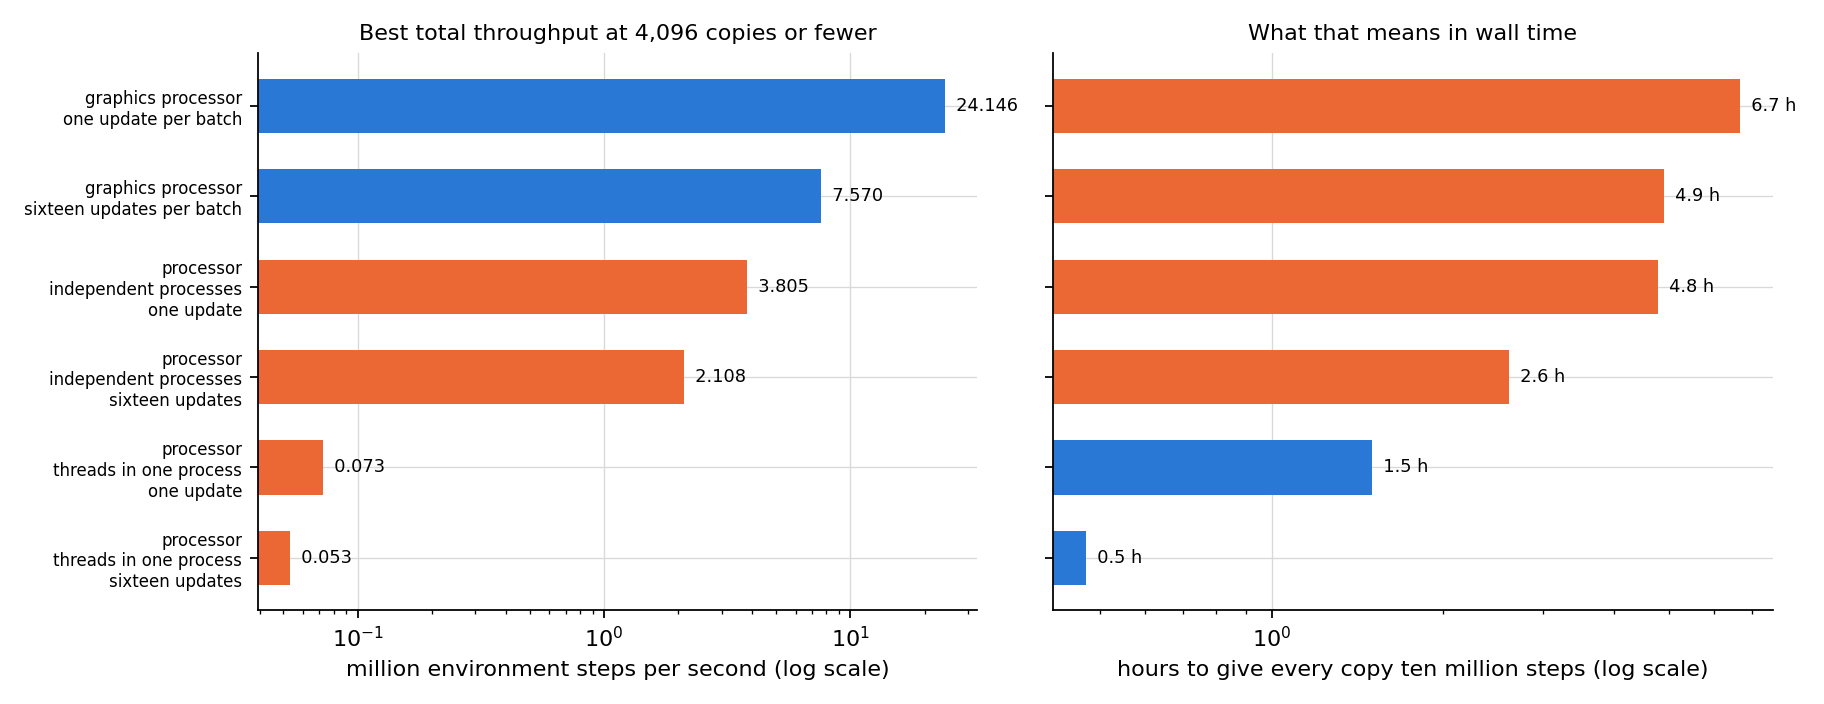
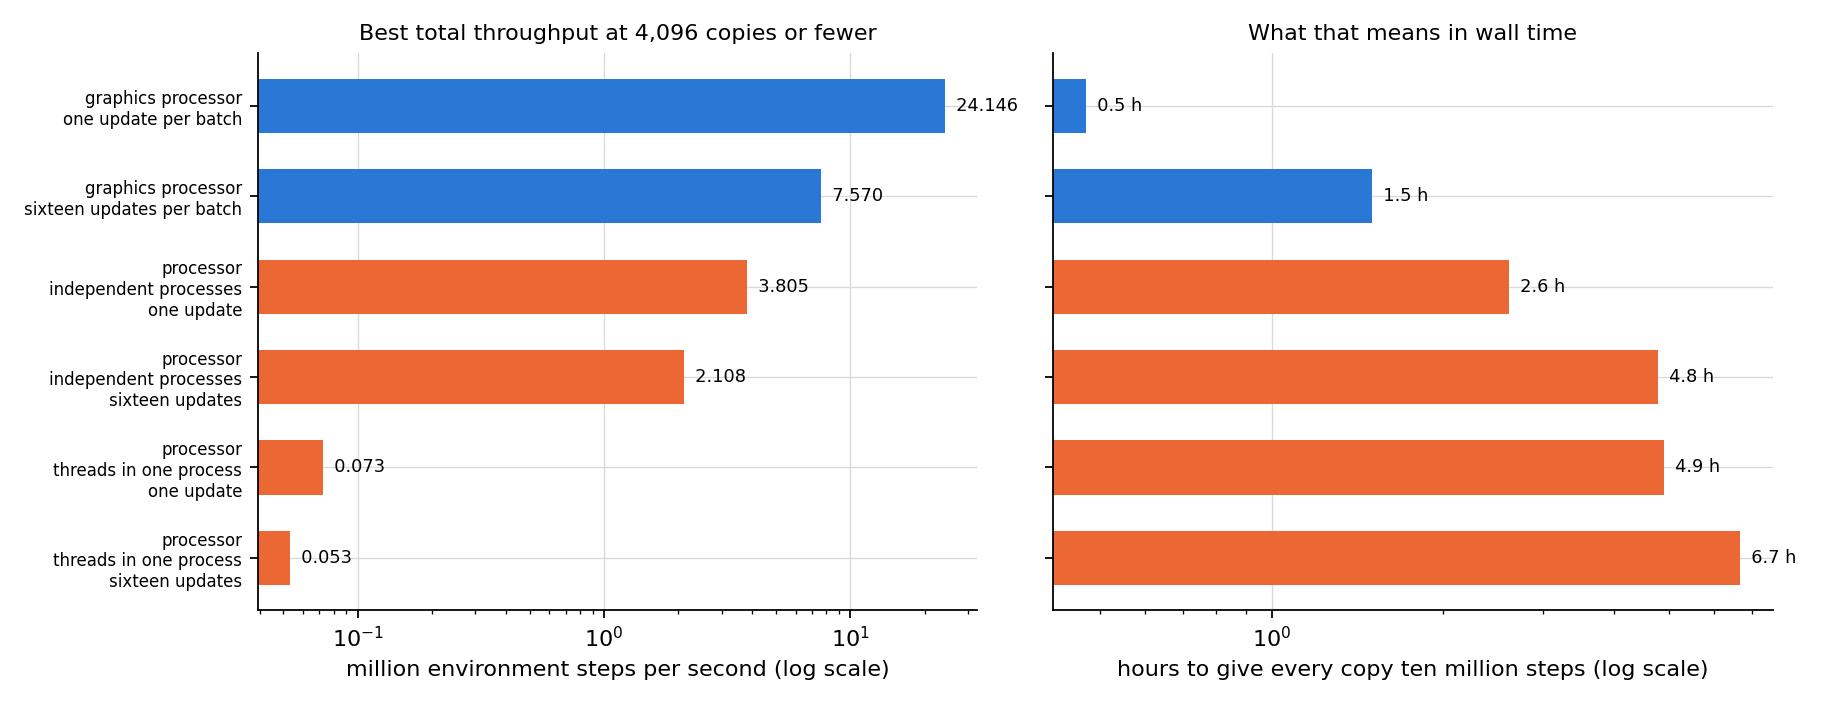
processor section: both parallelisation styles on jaguar03, and the best-setup comparison
Job 6537825 completed every planned point on jaguar03 held exclusively. Threads mode now
reaches 128 copies at two thread settings; process mode spans 8 to 3,584 copies; both update
conventions measured on each.

Report changes, all through code/cpu_sections.py and build.py:
- thread table shows the two thread settings side by side instead of collapsing them to a
  per-copy-count best, which was picking a half-percent noise difference at 128 copies
- the verdict prose is computed from the measurements rather than typed in
- best-setup table gains the missing thread/one-update row, and marks best and second best
- fixed: the wall-time panel of best_setup.png was drawn upside down against its shared row
  labels, so it read as the graphics processor being the slowest configuration
- fixed: the method section was numbered 5, colliding with the new processor section
- fixed: the four curves of cpu_worker_scaling.png were only two distinguishable colours

Claude-Session: https://claude.ai/code/session_015j6YeWp1Vn9h1zKwtPG3mG

diff --git a/09_parallelization/report/2026-08-15-gpu-parallel-rl-environment-training-endtoend/code/cpu_sections.py b/09_parallelization/report/2026-08-15-gpu-parallel-rl-environment-training-endtoend/code/cpu_sections.py
@@ -156,6 +156,21 @@ def fig_cpu_vs_gpu():
     return None
 
 
+def mark_best(texts, values, higher_is_better):
+    """Bold the best cell of a column and underline the second best, ties included.
+
+    before: texts = ["24.1", "7.57", "3.80"], values = [24.1, 7.57, 3.80], higher_is_better
+    after:  ["**24.1**", "<u>7.57</u>", "3.80"]
+    """
+    ranked = sorted(set(values), reverse=higher_is_better)
+    best = ranked[0]
+    second = ranked[1] if len(ranked) > 1 else None
+    out = []
+    for t, v in zip(texts, values):
+        out.append(f"**{t}**" if v == best else (f"<u>{t}</u>" if v == second else t))
+    return out
+
+
 def best_under(limit=4096):
     """The configuration maximising total throughput below a copy limit, per platform."""
     out = []
@@ -210,6 +225,8 @@ def fig_best_setup(limit=4096):
         axes[1].text(r["hours_10M"], i, f"  {r['hours_10M']:.1f} h", va="center", fontsize=8)
     axes[1].set_yticks(range(len(rows)))
     axes[1].set_yticklabels([])
+    # the row labels are printed only on the left panel, so this panel must run the same way up
+    axes[1].invert_yaxis()
     axes[1].set_xscale("log")
     axes[1].set_xlabel("hours to give every copy ten million steps (log scale)")
     axes[1].set_title("What that means in wall time", fontsize=10)
@@ -392,12 +409,20 @@ comparison below is restricted to **{limit:,} copies or fewer**, which is the ra
 actually operates in. For each platform and configuration, the table gives the setting that
 reaches the highest total throughput inside that range.
 
-| platform and configuration | copies | seconds per iteration | million steps per second | thousand steps per second per copy | hours to ten million steps per copy |
+| platform and configuration | copies | seconds per iteration | million steps per second ↑ | thousand steps per second per copy | hours to ten million steps per copy |
 |---|---|---|---|---|---|
 """
-    for r in rows:
-        md += (f"| {r['name']} | {r['copies']:,} | {r['sec_per_iteration']:.3f} | "
-               f"{M(r['total'])} | {K(r['per_copy'])} | {r['hours_10M']:.2f} |\n")
+    # mark best and second best in every scored column (copies is a setting, so it is skipped)
+    cells = {"sec_per_iteration": [f"{r['sec_per_iteration']:.3f}" for r in rows],
+             "total": [M(r["total"]) for r in rows],
+             "per_copy": [K(r["per_copy"]) for r in rows],
+             "hours_10M": [f"{r['hours_10M']:.2f}" for r in rows]}
+    for field, higher_is_better in [("sec_per_iteration", False), ("total", True),
+                                    ("per_copy", True), ("hours_10M", False)]:
+        cells[field] = mark_best(cells[field], [r[field] for r in rows], higher_is_better)
+    for i, r in enumerate(rows):
+        md += (f"| {r['name']} | {r['copies']:,} | {cells['sec_per_iteration'][i]} | "
+               f"{cells['total'][i]} | {cells['per_copy'][i]} | {cells['hours_10M'][i]} |\n")
     gpu = [r for r in rows if r["kind"] == "gpu"]
     cpu = [r for r in rows if r["kind"] == "cpu"]
     md += "\n![best setup](figures/best_setup.png)\n\n"
@@ -433,14 +458,18 @@ def fig_worker_scaling():
     for rows, colour, marker, style_name in [(th, C_CPU_THREAD, "s", "threads in one process"),
                                              (pr, C_CPU_PROC, "o", "independent processes")]:
         sizes = sorted({r["n_envs_per_worker"] if "n_envs_per_worker" in r else 0 for r in rows})
-        for size in sizes:
+        # colour carries the parallelisation style, so line style and marker fill have to carry
+        # the per-worker problem size — otherwise two curves of one family are indistinguishable
+        for i, size in enumerate(sizes):
             sel = sorted([r for r in rows if r.get("n_envs_per_worker") == size],
                          key=lambda r: r["workers"])
             if len(sel) < 3:
                 continue
             base = sel[0]["env_steps_per_sec"]
             ax.plot([r["workers"] for r in sel], [r["env_steps_per_sec"] / base for r in sel],
-                    "-", color=colour, linewidth=2, marker=marker, markersize=6,
+                    linestyle=["-", "-."][i % 2], color=colour, linewidth=2, marker=marker,
+                    markersize=6, markerfacecolor=colour if i % 2 == 0 else "white",
+                    markeredgecolor=colour,
                     label=f"{style_name}, {size:,} environments each")
     ax.axhline(1.0, color="#9aa0ab", linewidth=1, linestyle=":")
     ax.set_xscale("log", base=2)

diff --git a/09_parallelization/report/2026-08-15-gpu-parallel-rl-environment-training-endtoend/code/build.py b/09_parallelization/report/2026-08-15-gpu-parallel-rl-environment-training-endtoend/code/build.py
@@ -272,6 +272,12 @@ Each section states what the part does, presents the measured results in tables 
 and then lists the optimisation techniques that were tried: those that were kept, and those
 that were tried and abandoned, with the measurement that decided each case.
 
+Two further sections put those numbers in context. Section 5 runs the same training loop on
+ordinary processor cores, on a cluster node held exclusively so nothing else disturbed the
+timings, and compares the two ways of dividing work across many cores. Section 6 names the
+single best configuration on each of the two platforms within the range of scale this project
+actually uses, and converts each into the wall-clock time to train every copy.
+
 ### 1.1 The problem being solved
 
 The agent controls a ball in a two-dimensional maze. It can push the ball in two directions,

diff --git a/09_parallelization/report/2026-08-15-gpu-parallel-rl-environment-training-endtoend/report.md b/09_parallelization/report/2026-08-15-gpu-parallel-rl-environment-training-endtoend/report.md
@@ -14,6 +14,12 @@ Each section states what the part does, presents the measured results in tables 
 and then lists the optimisation techniques that were tried: those that were kept, and those
 that were tried and abandoned, with the measurement that decided each case.
 
+Two further sections put those numbers in context. Section 5 runs the same training loop on
+ordinary processor cores, on a cluster node held exclusively so nothing else disturbed the
+timings, and compares the two ways of dividing work across many cores. Section 6 names the
+single best configuration on each of the two platforms within the range of scale this project
+actually uses, and converts each into the wall-clock time to train every copy.
+
 ### 1.1 The problem being solved
 
 The agent controls a ball in a two-dimensional maze. It can push the ball in two directions,
@@ -531,10 +537,10 @@ comparison below is restricted to **4,096 copies or fewer**, which is the range 
 actually operates in. For each platform and configuration, the table gives the setting that
 reaches the highest total throughput inside that range.
 
-| platform and configuration | copies | seconds per iteration | million steps per second | thousand steps per second per copy | hours to ten million steps per copy |
+| platform and configuration | copies | seconds per iteration | million steps per second ↑ | thousand steps per second per copy | hours to ten million steps per copy |
 |---|---|---|---|---|---|
-| graphics processor, one update per batch | 4,096 | 0.087 | 24.1 | 5.90 | 0.47 |
-| graphics processor, sixteen updates per batch | 4,096 | 0.277 | 7.57 | 1.85 | 1.50 |
+| graphics processor, one update per batch | 4,096 | **0.087** | **24.1** | **5.90** | **0.47** |
+| graphics processor, sixteen updates per batch | 4,096 | <u>0.277</u> | <u>7.57</u> | <u>1.85</u> | <u>1.50</u> |
 | processor, independent processes, one update | 3,584 | 0.481 | 3.80 | 1.06 | 2.61 |
 | processor, independent processes, sixteen updates | 3,584 | 0.881 | 2.11 | 0.59 | 4.78 |
 | processor, threads in one process, one update | 128 | 0.904 | 0.0725 | 0.57 | 4.90 |
@@ -544,7 +550,8 @@ reaches the highest total throughput inside that range.
 
 The best graphics-processor configuration reaches 24.1 million environment steps per second at 4,096 copies; the best processor configuration reaches 3.80 million at 3,584 copies. That is a factor of **6.3**. In wall-clock terms, giving every copy ten million environment steps takes 0.47 hours on the graphics processor against 2.61 hours on the processor node.
 
-Two qualifications belong with those numbers. The processor figure is for one node held
+Best in each column is bold, second best underlined; copies is a setting rather than
+a score, so it is not marked. Two qualifications belong with those numbers. The processor figure is for one node held
 exclusively; a cluster with many such nodes multiplies it, and the independent-process
 arrangement is exactly what a work queue across many nodes would do. And the gap is narrower
 for training than for the environment alone, because training is dominated by matrix

diff --git a/09_parallelization/PROGRESS.md b/09_parallelization/PROGRESS.md
@@ -98,6 +98,16 @@ phase advances; per-subtask experiment logs live in each subtask's `progress_and
   same time (23.3 and 24.2 million environment steps per second). Report sections 5 and 6 added
   to `report/2026-08-15-gpu-parallel-rl-environment-training-endtoend/` via
   `code/cpu_sections.py`, with the graphics processor drawn dashed in every comparison figure.
+  DONE at 18:55 Eastern (15:55 PT), every point measured. Independent processes reach 2.11
+  million environment steps per second at 3,584 copies (3.80 with one update per batch); the
+  threaded form tops out at 0.053 million, a factor of 40 slower on the same machine. Raising
+  the thread count from 8 to 112 was slower at 7 of the 8 copy counts measured. Best setup under
+  4,096 copies: graphics processor 24.1 million at 0.47 hours to give every copy ten million
+  steps, against 3.80 million and 2.61 hours for the processor node — a factor of 6.3.
+  Two defects found and fixed while checking the rendered output: the wall-time panel of
+  `figures/best_setup.png` was drawn upside down against its shared row labels (it read as the
+  graphics processor being the SLOWEST), and the method section was numbered 5, colliding with
+  the new processor section.
 
 - 2026-08-15 ~04:45 — TASK COMPLETE. All five phases checked off. Unified report:
   `report/2026-08-15-pointmaze-gpu-parallelization/report.md` (+ a self-contained HTML

diff --git a/09_parallelization/analysis/2026-08-15-jaguar03-cpu-endtoend/experiment_background.md b/09_parallelization/analysis/2026-08-15-jaguar03-cpu-endtoend/experiment_background.md
@@ -34,3 +34,26 @@ script in `slurm/cpu_train_jaguar03.slurm`; job ids in `slurm/submitted_jobids_c
 
 Branch Use-RLexplore-RND; the exact commit is recorded in the `git` field of every result file
 written under `benchmarks/results/`.
+
+## Outcome
+
+Job 6537825 ran from 18:46 to 18:55 Eastern on 2026-08-15 (15:46 to 15:55 PT) and completed
+every planned point; the job printed its completion marker and exited without error. Eleven
+result files were written under `benchmarks/results/` with the `_j3_` tag.
+
+Headline numbers, all on this one node:
+
+| configuration | copies | million environment steps per second |
+|---|---|---|
+| 224 independent processes, 16 copies each, sixteen updates per batch | 3,584 | 2.11 |
+| 224 independent processes, 16 copies each, one update per batch | 3,584 | 3.80 |
+| one process, 8 threads, sixteen updates per batch | 128 | 0.053 |
+| one process, 112 threads, sixteen updates per batch | 128 | 0.053 |
+
+Independent processes beat threads by a factor of 40 at the top of each sweep. Raising the
+thread count from 8 to 112 was slower at 7 of the 8 copy counts measured and never faster
+beyond the measurement noise, so the threaded form does not benefit from the extra cores at all.
+
+These measurements feed sections 5 and 6 of
+`report/2026-08-15-gpu-parallel-rl-environment-training-endtoend/report.md`, generated by
+`code/cpu_sections.py`.
